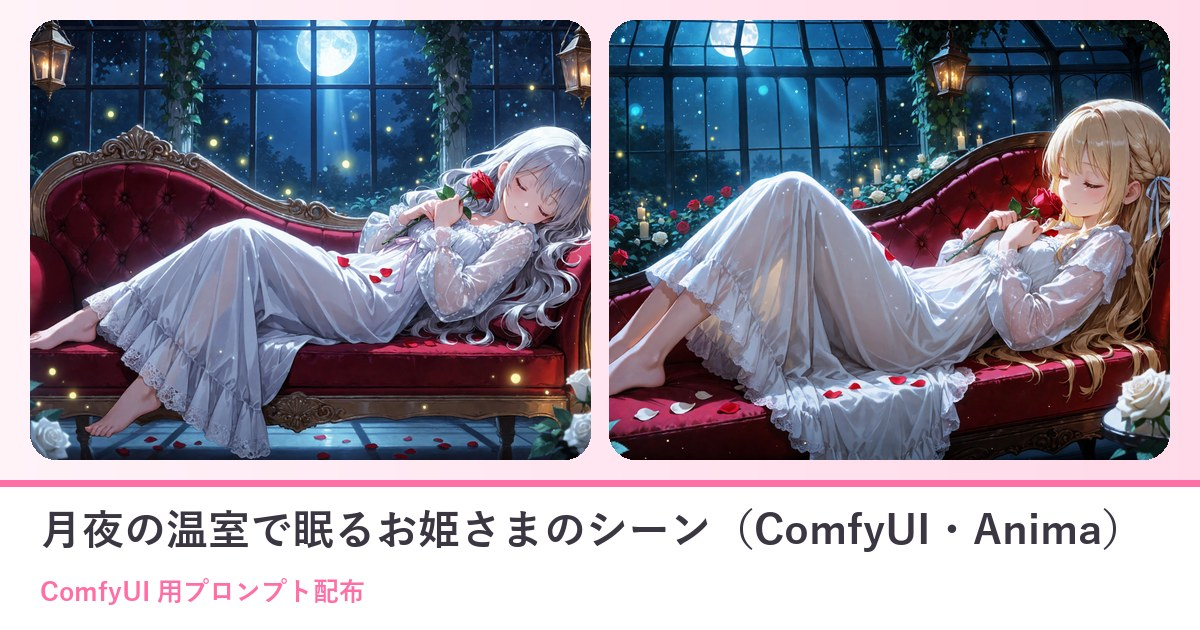
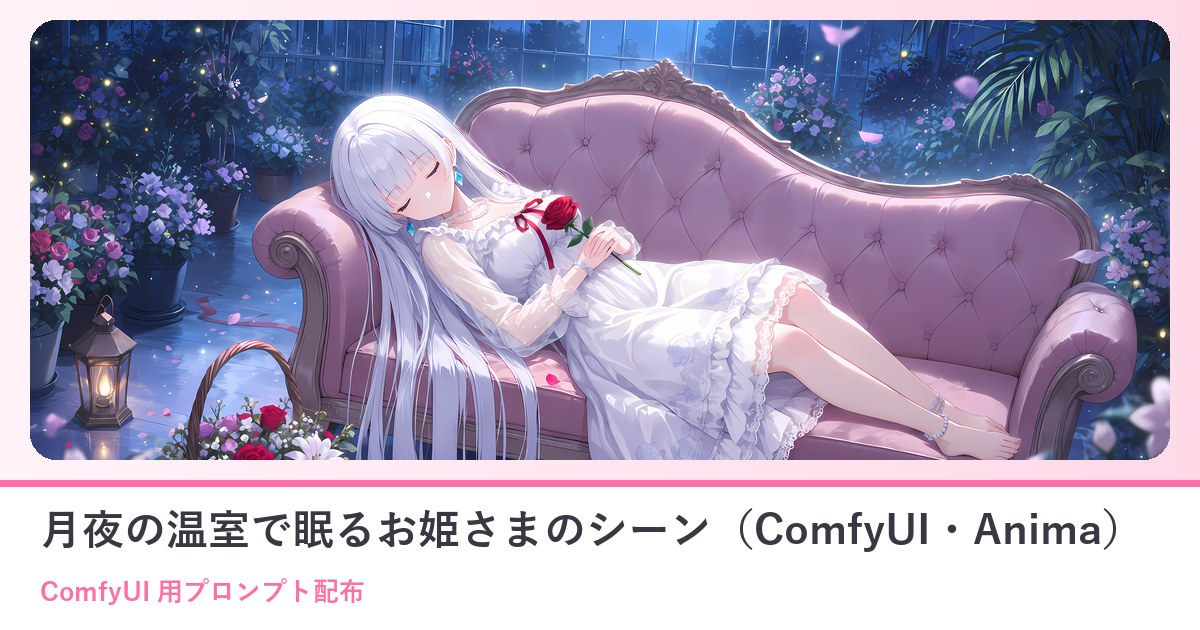
プロンプト配布 10/01 眠り姫 ComfyUI を1枚・LoRA あり／なしに作り直し

diff --git a/prompts/2026-10-01-comfy-bpw4d2qv.html b/prompts/2026-10-01-comfy-bpw4d2qv.html
@@ -4,16 +4,16 @@
 <meta charset="UTF-8"><meta name="robots" content="noindex, nofollow, noarchive"><meta name="referrer" content="strict-origin">
 <meta name="viewport" content="width=device-width, initial-scale=1">
 <title>月夜の温室で眠るお姫さまのシーン（ComfyUI・Anima）｜ひみつの眠り姫</title>
-<meta name="description" content="満月の光がさしこむガラスの温室で、赤いビロードの長椅子に横たわって眠るお姫さま。バラとランタンと蛍の光に包まれた、絵本のような一枚が作れるシーンのプロンプトです。オリキャラがいなくても、そのまま貼るだけで綺麗な女の子で出">
+<meta name="description" content="満月の光がさしこむガラスの温室で、ビロードの長椅子に横たわり、赤いバラを胸に抱いて眠るお姫さま。ランタンと蛍の光、舞う花びらに包まれた絵本のような一枚が作れるシーンのプロンプトです。LoRA が無くても、A をそのまま貼">
 <meta property="og:title" content="月夜の温室で眠るお姫さまのシーン（ComfyUI・Anima）｜ひみつの眠り姫">
-<meta property="og:description" content="満月の光がさしこむガラスの温室で、赤いビロードの長椅子に横たわって眠るお姫さま。バラとランタンと蛍の光に包まれた、絵本のような一枚が作れるシーンのプロンプトです。オリキャラがいなくても、そのまま貼るだけで綺麗な女の子で出">
+<meta property="og:description" content="満月の光がさしこむガラスの温室で、ビロードの長椅子に横たわり、赤いバラを胸に抱いて眠るお姫さま。ランタンと蛍の光、舞う花びらに包まれた絵本のような一枚が作れるシーンのプロンプトです。LoRA が無くても、A をそのまま貼">
 <meta property="og:type" content="article">
 <meta property="og:url" content="https://himitsu-nemurihime.github.io/prompts/2026-10-01-comfy-bpw4d2qv.html">
 <meta property="og:image" content="https://himitsu-nemurihime.github.io/prompts/img/2026-10-01-comfy-bpw4d2qv/og.jpg">
 <meta property="og:image:width" content="1200"><meta property="og:image:height" content="630">
 <meta name="twitter:card" content="summary_large_image">
 <meta name="twitter:title" content="月夜の温室で眠るお姫さまのシーン（ComfyUI・Anima）｜ひみつの眠り姫">
-<meta name="twitter:description" content="満月の光がさしこむガラスの温室で、赤いビロードの長椅子に横たわって眠るお姫さま。バラとランタンと蛍の光に包まれた、絵本のような一枚が作れるシーンのプロンプトです。オリキャラがいなくても、そのまま貼るだけで綺麗な女の子で出">
+<meta name="twitter:description" content="満月の光がさしこむガラスの温室で、ビロードの長椅子に横たわり、赤いバラを胸に抱いて眠るお姫さま。ランタンと蛍の光、舞う花びらに包まれた絵本のような一枚が作れるシーンのプロンプトです。LoRA が無くても、A をそのまま貼">
 <meta name="twitter:image" content="https://himitsu-nemurihime.github.io/prompts/img/2026-10-01-comfy-bpw4d2qv/og.jpg">
 <meta name="theme-color" content="#FFF3F8">
 <link rel="preconnect" href="https://fonts.googleapis.com">
@@ -68,15 +68,17 @@
 @media(max-width:560px){.ps-ba{grid-template-columns:1fr}.ps-ba .arr{transform:rotate(90deg);text-align:center}.ps-vars,.ps-vars tbody,.ps-vars tr,.ps-vars th,.ps-vars td{display:block;width:auto;white-space:normal}.ps-vars tr:first-child{display:none}.ps-vars tr{border-bottom:1px solid var(--ps-line);padding:4px 0}.ps-vars th,.ps-vars td{border:0;padding:6px 12px}}
 .ps{overflow-wrap:anywhere}.ps-vars td,.ps-vars th{overflow-wrap:anywhere}.ps img{max-width:100%}
 </style>
-<!--ps-meta {"date": "2026-10-01", "title": "月夜の温室で眠るお姫さまのシーン（ComfyUI・Anima）", "kind": "comfy", "nsfw": false, "summary": "満月の温室で、ビロードの長椅子に眠るお姫さま。バラ・ランタン・蛍の光に包まれた絵本のような一枚が、貼るだけで作れます。", "thumb": "img/2026-10-01-comfy-bpw4d2qv/ex1.webp"}-->
+<!--ps-meta {"date": "2026-10-01", "title": "月夜の温室で眠るお姫さまのシーン（ComfyUI・Anima）", "kind": "comfy", "nsfw": false, "summary": "満月の温室で、バラを抱いて長椅子に眠るお姫さま。LoRA あり／なしの2通り。", "thumb": "img/2026-10-01-comfy-bpw4d2qv/ex1.webp"}-->
 </head>
 <body>
 <div class="sky"></div>
 <main class="wrap">
 <section class="sec"><div class="sec-head"><h2>月夜の温室で眠るお姫さまのシーン（ComfyUI・Anima）</h2><p>ひみつの眠り姫のプロンプト配布</p></div>
-<div class="ps"><p><span class="ps-badge">ComfyUI 用</span><span class="ps-badge">2026-10-01</span></p><p class="ps-lead">満月の光がさしこむガラスの温室で、赤いビロードの長椅子に横たわって眠るお姫さま。バラとランタンと蛍の光に包まれた、絵本のような一枚が作れるシーンのプロンプトです。オリキャラがいなくても、そのまま貼るだけで綺麗な女の子で出ます。自分のキャラにしたいときは、1行目の見た目だけ書き換えてください。</p><nav class="ps-toc" aria-label="目次"><p>📑 目次</p><ol><li><a href="#sec1">作例</a></li><li><a href="#sec2">3人のおしゃべり（お昼寝のつもりが）</a></li><li><a href="#sec3">使い方（3ステップ）</a></li><li><a href="#sec4">プロンプト</a></li><li><a href="#sec5">必要なもの（ComfyUI）</a></li><li><a href="#sec6">メモ</a></li><li><a href="#sec7">配布ルール</a></li><li><a href="#sec8">バックナンバー</a></li></ol></nav><h2 id="sec1">作例</h2><div class="ps-ex"><figure><img src="img/2026-10-01-comfy-bpw4d2qv/ex1.webp" alt="1行目そのまま（1girl, solo, long hair, wavy hair, silver hair）" loading="lazy"><figcaption>1行目そのまま（1girl, solo, long hair, wavy hair, silver hair）</figcaption></figure><figure><img src="img/2026-10-01-comfy-bpw4d2qv/ex2.webp" alt="1行目を「1girl, solo, long hair, blonde hair, braid, hair ribbon」に" loading="lazy"><figcaption>1行目を「1girl, solo, long hair, blonde hair, braid, hair ribbon」に</figcaption></figure><figure><img src="img/2026-10-01-comfy-bpw4d2qv/ex3.webp" alt="1行目を「1girl, solo, medium hair, light green hair, pink streaks, hair flower」に" loading="lazy"><figcaption>1行目を「1girl, solo, medium hair, light green hair, pink streaks, hair flower」に</figcaption></figure><figure><img src="img/2026-10-01-comfy-bpw4d2qv/ex4.webp" alt="1行目を「1girl, solo, short hair, black hair, hairclip」に" loading="lazy"><figcaption>1行目を「1girl, solo, short hair, black hair, hairclip」に</figcaption></figure></div><p style="font-size:.82rem;color:var(--ps-ink)">※作例の画像の転載・保存しての再配布はご遠慮ください。</p><h2 id="sec2">3人のおしゃべり（お昼寝のつもりが）</h2><div class="ps-chat"><img src="img/2026-10-01-comfy-bpw4d2qv/talk_ref_tiru.webp" alt="ティルナ" loading="lazy"><div><div class="who">ティルナ</div><div class="bub">見て見て！ 満月の温室で、お姫さまがバラを抱っこしてすやすや寝てるよ〜！</div></div></div><div class="ps-chat r"><img src="img/2026-10-01-comfy-bpw4d2qv/talk_ref_sefi.webp" alt="セフィリア" loading="lazy"><div><div class="who">セフィリア</div><div class="bub">まあ……ランタンの灯りと蛍の光まで。白いネグリジェのレースが、月明かりに透けておりますね</div></div></div><div class="ps-chat r"><img src="img/2026-10-01-comfy-bpw4d2qv/talk_ref_lilia.webp" alt="リリア" loading="lazy"><div><div class="who">リリア</div><div class="bub">1行目の髪の色を書き換えるだけで、金髪の三つ編みにも、黒髪のショートにもなりますの。オリキャラがいなくても、そのままで綺麗に出ますわ</div></div></div><div class="ps-chat"><img src="img/2026-10-01-comfy-bpw4d2qv/talk_ref_tiru.webp" alt="ティルナ" loading="lazy"><div><div class="who">ティルナ</div><div class="bub">じゃあじゃあ、緑の髪にピンクのメッシュも！ ……あっ、わたしだ！</div></div></div><div class="ps-chat r"><img src="img/2026-10-01-comfy-bpw4d2qv/talk_ref_sefi.webp" alt="セフィリア" loading="lazy"><div><div class="who">セフィリア</div><div class="bub">ふふ、ティルナもすっかりお姫さまでございます。起こさないように、そっと見守りましょう</div></div></div><div class="ps-chat r"><img src="img/2026-10-01-comfy-bpw4d2qv/talk_ref_lilia.webp" alt="リリア" loading="lazy"><div><div class="who">リリア</div><div class="bub">ネガティブの open eyes は消さないでくださいませ。眠り姫が目を覚ましてしまいますわ</div></div></div><h2 id="sec3">使い方（3ステップ）</h2><ol class="ps-steps"><li>ComfyUI で Anima のモデルを読み、基本の画像生成（テキストから画像）の画面にする</li><li>下のポジティブとネガティブをワンタップでコピーして貼る（自分のキャラにするなら1行目だけ書き換える）</li><li>「推奨値」の大きさ・steps・CFG にして生成する（できれば 1.5 倍の hires fix も）</li></ol><h2 id="sec4">プロンプト</h2><div class="ps-note" style="margin-bottom:12px"><b>変えるのは1行目（色の付いた行）だけ</b><ul><li>1行目＝キャラの見た目（髪の色・髪型・目の色など）。自分のキャラの特徴に書き換えてね</li><li>オリキャラがいない人は、<b>そのまま</b>コピーして使えばOK（作例の女の子で出ます）</li><li>自分のキャラの LoRA がある人は、1行目に LoRA のトリガー語を入れてね</li><li>2行目から下（シーン）と、ネガティブプロンプトは変えずにそのまま</li><li>🚫 版権キャラの名前・版権キャラの LoRA を入れて使うのは固く禁止です（下の「配布ルール」）</li></ul></div><div class="ps-box"><button class="ps-copy" type="button" data-target="ps-prompt">📋 ワンタップでコピー</button><p style="margin:0 0 8px;font-size:.82rem;color:var(--ps-a)">ポジティブプロンプト</p><pre><mark class="ps-in" data-key="キャラの行">1girl, solo, long hair, wavy hair, silver hair</mark>
-masterpiece, best quality, score_7, safe, sleeping, closed eyes, peaceful smile, lying, on back, on chaise longue, red velvet, holding flower, red rose, hands on own chest, white nightgown, frilled dress, lace trim, long sleeves, see-through sleeves, ribbon, from side, full body, greenhouse, glass ceiling, glass wall, night, moonlight, full moon, moonbeam, red roses, white roses, climbing rose, ivy, rose petals, petals on body, fireflies, light particles, hanging lantern, candlelight, rim light, bokeh, depth of field, foreground flowers, detailed background, scenery, cinematic lighting, ethereal, fairy tale</pre><textarea class="ps-copyarea" id="ps-prompt" readonly aria-hidden="true" tabindex="-1">1girl, solo, long hair, wavy hair, silver hair
-masterpiece, best quality, score_7, safe, sleeping, closed eyes, peaceful smile, lying, on back, on chaise longue, red velvet, holding flower, red rose, hands on own chest, white nightgown, frilled dress, lace trim, long sleeves, see-through sleeves, ribbon, from side, full body, greenhouse, glass ceiling, glass wall, night, moonlight, full moon, moonbeam, red roses, white roses, climbing rose, ivy, rose petals, petals on body, fireflies, light particles, hanging lantern, candlelight, rim light, bokeh, depth of field, foreground flowers, detailed background, scenery, cinematic lighting, ethereal, fairy tale</textarea></div><div style="height:12px"></div><div class="ps-box"><button class="ps-copy" type="button" data-target="ps-negative">📋 ワンタップでコピー</button><p style="margin:0 0 8px;font-size:.82rem;color:var(--ps-a)">ネガティブプロンプト</p><pre>worst quality, low quality, lowres, bad anatomy, bad hands, extra fingers, missing fingers, fused fingers, blurry, jpeg artifacts, text, watermark, signature, logo, extra person, multiple girls, open eyes, cropped, out of frame, japanese text, chinese text, korean text, kanji, hiragana, katakana, calligraphy</pre><textarea class="ps-copyarea" id="ps-negative" readonly aria-hidden="true" tabindex="-1">worst quality, low quality, lowres, bad anatomy, bad hands, extra fingers, missing fingers, fused fingers, blurry, jpeg artifacts, text, watermark, signature, logo, extra person, multiple girls, open eyes, cropped, out of frame, japanese text, chinese text, korean text, kanji, hiragana, katakana, calligraphy</textarea></div><h2 id="sec5">必要なもの（ComfyUI）</h2><div class="ps-note">🧩 <b>カスタムノードは使っていません</b>。LoRA も要りません。ComfyUI の基本の画像生成（テキストから画像）に、ポジティブ・ネガティブを貼って、下の推奨値にするだけです。</div><table class="ps-vars" style="margin-top:12px"><tr><th>モデル</th><th>ファイル</th><th>置き場</th></tr><tr><td>Anima 系のモデル</td><td>PrismPalette_ANIMA_v1 など好きな Anima</td><td><code>models/diffusion_models</code></td></tr><tr><td>テキストエンコーダ（Anima 用）</td><td>qwen_3_06b_base.safetensors</td><td><code>models/text_encoders</code></td></tr><tr><td>VAE（Anima 用）</td><td>qwen_image_vae.safetensors</td><td><code>models/vae</code></td></tr></table><h2>推奨値</h2><table class="ps-vars"><tr><th>大きさ</th><td colspan="2">1536×864（横長＝寝ている姿は横長がいちばん綺麗）</td></tr><tr><th>steps</th><td colspan="2">30</td></tr><tr><th>CFG</th><td colspan="2">4.5</td></tr><tr><th>sampler</th><td colspan="2">er_sde</td></tr><tr><th>scheduler</th><td colspan="2">beta</td></tr><tr><th>hires fix（任意）</th><td colspan="2">1.5 倍に拡大して denoise 0.4・同じ steps と CFG（作例はこれ）</td></tr><tr><th>LoRA</th><td colspan="2">要りません（自分のキャラの LoRA があれば使ってOK）</td></tr></table><h2 id="sec6">メモ</h2><ul class="ps-rules"><li>1行目には見た目だけを書いてください（髪の色・長さ・髪型・髪飾りなど）。服や場所は2行目からに入っているので、書かなくて大丈夫です。</li><li>眠っている場面なので、目の色は写りません。ネガティブの open eyes は消さないでください（目が開いてしまいます）。</li><li>手がくずれたときは、seed を変えて何枚か焼くのがいちばん早いです。手はバラを持つ形にしてあるので、くずれにくくなっています。</li><li>ほかのモデル（SDXL・Illustrious など）でも、2行目の先頭の masterpiece, best quality, score_7, safe をそのモデルの品質の語に替えれば使えます（作例は Anima です）。</li></ul><h2 id="sec7">配布ルール</h2><ul class="ps-rules"><li>⭕ プロンプトの改変は自由です。</li><li>⭕ 生成した画像は SNS に投稿して大丈夫です。</li><li>❌ プロンプト文そのものの転載・再配布・販売はしないでください。</li><li>❌ 自作のプロンプトだと名乗ることはやめてください。</li><li>❌ このページの作例画像の無断転載はしないでください。</li><li class="ps-rights">🚫 <b>アニメ・漫画・ゲームなどの版権キャラクター（著作権・商標のあるキャラ）、他の人のキャラクターやイラスト、実在の人物の写真を添付画像にして使うことは固く禁止します。</b>版権キャラの名前や、版権キャラの LoRA を入れて使うことも禁止です。</li><li>✅ 添付してよいのは、<b>自分で作ったキャラクター・自分が権利を持つ画像</b>（または権利者から使ってよいと言われた画像）だけです。</li><li>⚠ 生成した画像の使い方（投稿・公開など）は、使った人の責任でお願いします。権利の問題が起きても、配布者は責任を負えません。</li><li>💌 使ったら <b>#眠り姫プロンプト</b> を付けて見せてくれたら、とても嬉しいです（任意です）。</li></ul><h2 id="sec8">バックナンバー</h2><div class="ps-note">📚 これまでの配布は <a href="index.html"><b>バックナンバー</b></a> にまとめてあります（作例の絵と内容が一覧で見られます）。お友だちに教えるときは、バックナンバーのページの URL を送ればOKです。</div></div>
+<div class="ps"><p><span class="ps-badge">ComfyUI 用</span><span class="ps-badge">2026-10-01</span></p><p class="ps-lead">満月の光がさしこむガラスの温室で、ビロードの長椅子に横たわり、赤いバラを胸に抱いて眠るお姫さま。ランタンと蛍の光、舞う花びらに包まれた絵本のような一枚が作れるシーンのプロンプトです。LoRA が無くても、A をそのまま貼るだけで綺麗な女の子で出ます。自分のキャラの LoRA を持っている人は B をどうぞ。</p><nav class="ps-toc" aria-label="目次"><p>📑 目次</p><ol><li><a href="#sec1">作例</a></li><li><a href="#sec2">3人のおしゃべり（お昼寝のつもりが）</a></li><li><a href="#sec3">使い方（3ステップ）</a></li><li><a href="#sec4">プロンプト</a></li><li><a href="#sec5">必要なもの（ComfyUI）</a></li><li><a href="#sec6">メモ</a></li><li><a href="#sec7">配布ルール</a></li></ol></nav><h2 id="sec1">作例</h2><div class="ps-ex"><figure><img src="img/2026-10-01-comfy-bpw4d2qv/ex1.webp" alt="リリア（眠り姫の LoRA・いつもの投稿と同じ仕上げ）" loading="lazy"><figcaption>リリア（眠り姫の LoRA・いつもの投稿と同じ仕上げ）</figcaption></figure></div><p style="font-size:.82rem;color:var(--ps-ink)">※作例の画像の転載・保存しての再配布はご遠慮ください。</p><h2 id="sec2">3人のおしゃべり（お昼寝のつもりが）</h2><div class="ps-chat"><img src="img/2026-10-01-comfy-bpw4d2qv/talk_ref_tiru.webp" alt="ティルナ" loading="lazy"><div><div class="who">ティルナ</div><div class="bub">見て見て！ リリアが満月の温室で、バラを胸にのせてすやすや寝てるよ〜！</div></div></div><div class="ps-chat r"><img src="img/2026-10-01-comfy-bpw4d2qv/talk_ref_sefi.webp" alt="セフィリア" loading="lazy"><div><div class="who">セフィリア</div><div class="bub">まあ……ランタンの灯りに、足もとのかごいっぱいのバラ。白いネグリジェのレースが、月明かりに透けておりますね</div></div></div><div class="ps-chat r"><img src="img/2026-10-01-comfy-bpw4d2qv/talk_ref_lilia.webp" alt="リリア" loading="lazy"><div><div class="who">リリア</div><div class="bub">LoRA が無い方は A をそのまま貼るだけですわ。1行目の髪の色を変えれば、ご自分の子にも近づけられますの</div></div></div><div class="ps-chat"><img src="img/2026-10-01-comfy-bpw4d2qv/talk_ref_tiru.webp" alt="ティルナ" loading="lazy"><div><div class="who">ティルナ</div><div class="bub">LoRA がある人は B だよ！ 1行目の your_lora_trigger を自分のトリガー語にするだけ！</div></div></div><div class="ps-chat r"><img src="img/2026-10-01-comfy-bpw4d2qv/talk_ref_sefi.webp" alt="セフィリア" loading="lazy"><div><div class="who">セフィリア</div><div class="bub">足首のアンクレットまで、きちんと描かれております。起こさないように、そっと見守りましょう</div></div></div><div class="ps-chat r"><img src="img/2026-10-01-comfy-bpw4d2qv/talk_ref_lilia.webp" alt="リリア" loading="lazy"><div><div class="who">リリア</div><div class="bub">……すぅ。眠り姫ですもの、もう少しだけ寝かせてくださいませ</div></div></div><h2 id="sec3">使い方（3ステップ）</h2><ol class="ps-steps"><li>ComfyUI で Anima のモデルを読み、基本の画像生成（テキストから画像）の画面にする</li><li>下の A（LoRA なし）か B（LoRA あり）のポジティブと、ネガティブをワンタップでコピーして貼る</li><li>「推奨値」の大きさ・steps・CFG にして生成する（できれば 1.5 倍の hires fix も）</li></ol><h2 id="sec4">プロンプト</h2><div class="ps-note" style="margin-bottom:12px"><b>変えるのは1行目（色の付いた行）だけ</b><ul><li>使うプロンプトは2通り＝<b>A. LoRA を持っていない人</b>／<b>B. 自分のキャラの LoRA を持っている人</b>。どちらも丸ごとコピーして貼るだけ</li><li>A は<b>そのまま</b>でも綺麗な女の子で出ます。自分のキャラにするなら1行目の髪の色・髪型・目の色を書き換えるだけ</li><li>B は1行目の <code>your_lora_trigger</code> を自分の LoRA のトリガー語に置きかえるだけ（LoRA の強さは下の表）</li><li>2行目から下（シーン）と、ネガティブプロンプトは変えずにそのまま</li><li>🚫 版権キャラの名前・版権キャラの LoRA を入れて使うのは固く禁止です（下の「配布ルール」）</li></ul></div><h3 style="margin:14px 0 8px">A. LoRA を持っていない人（そのままでもOK）</h3><div class="ps-box"><button class="ps-copy" type="button" data-target="ps-prompt">📋 ワンタップでコピー</button><p style="margin:0 0 8px;font-size:.82rem;color:var(--ps-a)">ポジティブプロンプト</p><pre><mark class="ps-in" data-key="キャラの行">1girl, solo, long hair, wavy hair, silver hair</mark>
+masterpiece, best quality, score_7, safe, full body, from side, wide shot, sleeping, closed eyes, smile, lying, on back, couch, own hands together, holding flower, red rose, falling petals, greenhouse, glass wall, potted plant, rose, night, full moon, moonlight, lantern, fireflies, light particles, white nightgown, frilled dress, see-through sleeves, long sleeves, lace, floral print, lace trim, ribbon, barefoot, anklet, flower wreath, crystal earrings, bracelet, flower basket, petals, red ribbon, mist, pastel colors, frilled collar, lace-trimmed skirt, pearl necklace, depth of field</pre><textarea class="ps-copyarea" id="ps-prompt" readonly aria-hidden="true" tabindex="-1">1girl, solo, long hair, wavy hair, silver hair
+masterpiece, best quality, score_7, safe, full body, from side, wide shot, sleeping, closed eyes, smile, lying, on back, couch, own hands together, holding flower, red rose, falling petals, greenhouse, glass wall, potted plant, rose, night, full moon, moonlight, lantern, fireflies, light particles, white nightgown, frilled dress, see-through sleeves, long sleeves, lace, floral print, lace trim, ribbon, barefoot, anklet, flower wreath, crystal earrings, bracelet, flower basket, petals, red ribbon, mist, pastel colors, frilled collar, lace-trimmed skirt, pearl necklace, depth of field</textarea></div><h3 style="margin:18px 0 8px">B. 自分のキャラの LoRA を持っている人</h3><div class="ps-box"><button class="ps-copy" type="button" data-target="ps-prompt-lora">📋 ワンタップでコピー</button><p style="margin:0 0 8px;font-size:.82rem;color:var(--ps-a)">ポジティブプロンプト（LoRA 用）</p><pre><mark class="ps-in" data-key="キャラの行">1girl, solo, your_lora_trigger</mark>
+masterpiece, best quality, score_7, safe, full body, from side, wide shot, sleeping, closed eyes, smile, lying, on back, couch, own hands together, holding flower, red rose, falling petals, greenhouse, glass wall, potted plant, rose, night, full moon, moonlight, lantern, fireflies, light particles, white nightgown, frilled dress, see-through sleeves, long sleeves, lace, floral print, lace trim, ribbon, barefoot, anklet, flower wreath, crystal earrings, bracelet, flower basket, petals, red ribbon, mist, pastel colors, frilled collar, lace-trimmed skirt, pearl necklace, depth of field</pre><textarea class="ps-copyarea" id="ps-prompt-lora" readonly aria-hidden="true" tabindex="-1">1girl, solo, your_lora_trigger
+masterpiece, best quality, score_7, safe, full body, from side, wide shot, sleeping, closed eyes, smile, lying, on back, couch, own hands together, holding flower, red rose, falling petals, greenhouse, glass wall, potted plant, rose, night, full moon, moonlight, lantern, fireflies, light particles, white nightgown, frilled dress, see-through sleeves, long sleeves, lace, floral print, lace trim, ribbon, barefoot, anklet, flower wreath, crystal earrings, bracelet, flower basket, petals, red ribbon, mist, pastel colors, frilled collar, lace-trimmed skirt, pearl necklace, depth of field</textarea></div><table class="ps-vars" style="margin-top:10px"><tr><th>LoRA のつなぎ方</th><td colspan="2">Load Diffusion Model（Anima）のうしろに LoraLoaderModelOnly を1つ足す（CLIP にはつながない）</td></tr><tr><th>LoRA の強さ（strength_model）</th><td colspan="2">0.8〜0.9（作例は 0.85）</td></tr><tr><th>1行目</th><td colspan="2">your_lora_trigger を自分の LoRA のトリガー語に置きかえる（髪や目の色は LoRA が覚えているので書かなくてOK）</td></tr></table><p style="font-size:.85rem;margin:10px 0 0">ネガティブプロンプトは A・B 共通（下）です。</p><div style="height:12px"></div><div class="ps-box"><button class="ps-copy" type="button" data-target="ps-negative">📋 ワンタップでコピー</button><p style="margin:0 0 8px;font-size:.82rem;color:var(--ps-a)">ネガティブプロンプト</p><pre>worst quality, low quality, lowres, bad anatomy, bad hands, extra fingers, missing fingers, fused fingers, blurry, jpeg artifacts, text, watermark, signature, logo, extra person, multiple girls, cropped, out of frame, japanese text, chinese text, korean text, kanji, hiragana, katakana, calligraphy</pre><textarea class="ps-copyarea" id="ps-negative" readonly aria-hidden="true" tabindex="-1">worst quality, low quality, lowres, bad anatomy, bad hands, extra fingers, missing fingers, fused fingers, blurry, jpeg artifacts, text, watermark, signature, logo, extra person, multiple girls, cropped, out of frame, japanese text, chinese text, korean text, kanji, hiragana, katakana, calligraphy</textarea></div><h2 id="sec5">必要なもの（ComfyUI）</h2><div class="ps-note">🧩 <b>カスタムノードは使っていません</b>。LoRA が無くても大丈夫（A のプロンプト）。ComfyUI の基本の画像生成（テキストから画像）に、ポジティブ・ネガティブを貼って、下の推奨値にするだけです。LoRA を使う人は「LoraLoaderModelOnly」を1つ足すだけ（B のプロンプト）。</div><table class="ps-vars" style="margin-top:12px"><tr><th>モデル</th><th>ファイル</th><th>置き場</th></tr><tr><td>Anima 系のモデル</td><td>PrismPalette_ANIMA_v1 など好きな Anima</td><td><code>models/diffusion_models</code></td></tr><tr><td>テキストエンコーダ（Anima 用）</td><td>qwen_3_06b_base.safetensors</td><td><code>models/text_encoders</code></td></tr><tr><td>VAE（Anima 用）</td><td>qwen_image_vae.safetensors</td><td><code>models/vae</code></td></tr></table><h2>推奨値</h2><table class="ps-vars"><tr><th>大きさ</th><td colspan="2">1536×864（横長＝寝ている姿は横長がいちばん綺麗）</td></tr><tr><th>steps</th><td colspan="2">30</td></tr><tr><th>CFG</th><td colspan="2">4.5</td></tr><tr><th>sampler</th><td colspan="2">er_sde</td></tr><tr><th>scheduler</th><td colspan="2">beta</td></tr><tr><th>hires fix（任意）</th><td colspan="2">1.5 倍に拡大して denoise 0.4・同じ steps と CFG（試し焼きはこれ）</td></tr><tr><th>LoRA</th><td colspan="2">無くてOK（A のプロンプト）。自分のキャラの LoRA があれば B のプロンプトで</td></tr></table><h2 id="sec6">メモ</h2><ul class="ps-rules"><li>A（LoRA なし）は1行目の髪の色・長さ・髪型を書き換えるだけで、自分のキャラに近づけられます。そのままでも綺麗な女の子で出ます（試し焼きで確かめてあります）。</li><li>B（LoRA あり）は1行目の your_lora_trigger を自分の LoRA のトリガー語にするだけ。髪や目の色は LoRA が覚えているので書かなくて大丈夫です。</li><li>眠っている場面なので、目は閉じています。手は胸の上でバラを持つ形にしてあるので、くずれにくくなっています。くずれたら seed を変えて何枚か焼いてください。</li><li>ほかのモデル（SDXL・Illustrious など）でも、2行目の先頭の masterpiece, best quality, score_7, safe をそのモデルの品質の語に替えれば使えます（作例は Anima です）。</li></ul><h2 id="sec7">配布ルール</h2><ul class="ps-rules"><li>⭕ プロンプトの改変は自由です。</li><li>⭕ 生成した画像は SNS に投稿して大丈夫です。</li><li>❌ プロンプト文そのものの転載・再配布・販売はしないでください。</li><li>❌ 自作のプロンプトだと名乗ることはやめてください。</li><li>❌ このページの作例画像の無断転載はしないでください。</li><li class="ps-rights">🚫 <b>アニメ・漫画・ゲームなどの版権キャラクター（著作権・商標のあるキャラ）、他の人のキャラクターやイラスト、実在の人物の写真を添付画像にして使うことは固く禁止します。</b>版権キャラの名前や、版権キャラの LoRA を入れて使うことも禁止です。</li><li>✅ 添付してよいのは、<b>自分で作ったキャラクター・自分が権利を持つ画像</b>（または権利者から使ってよいと言われた画像）だけです。</li><li>⚠ 生成した画像の使い方（投稿・公開など）は、使った人の責任でお願いします。権利の問題が起きても、配布者は責任を負えません。</li><li>💌 使ったら <b>#眠り姫プロンプト</b> を付けて見せてくれたら、とても嬉しいです（任意です）。</li></ul></div>
 <p style="text-align:center;margin:34px 0 0"><a class="gate-btn ghost" href="../index.html" style="color:var(--ink-dim);border-color:var(--line)">部屋に戻る</a></p>
 </section>
 </main>
